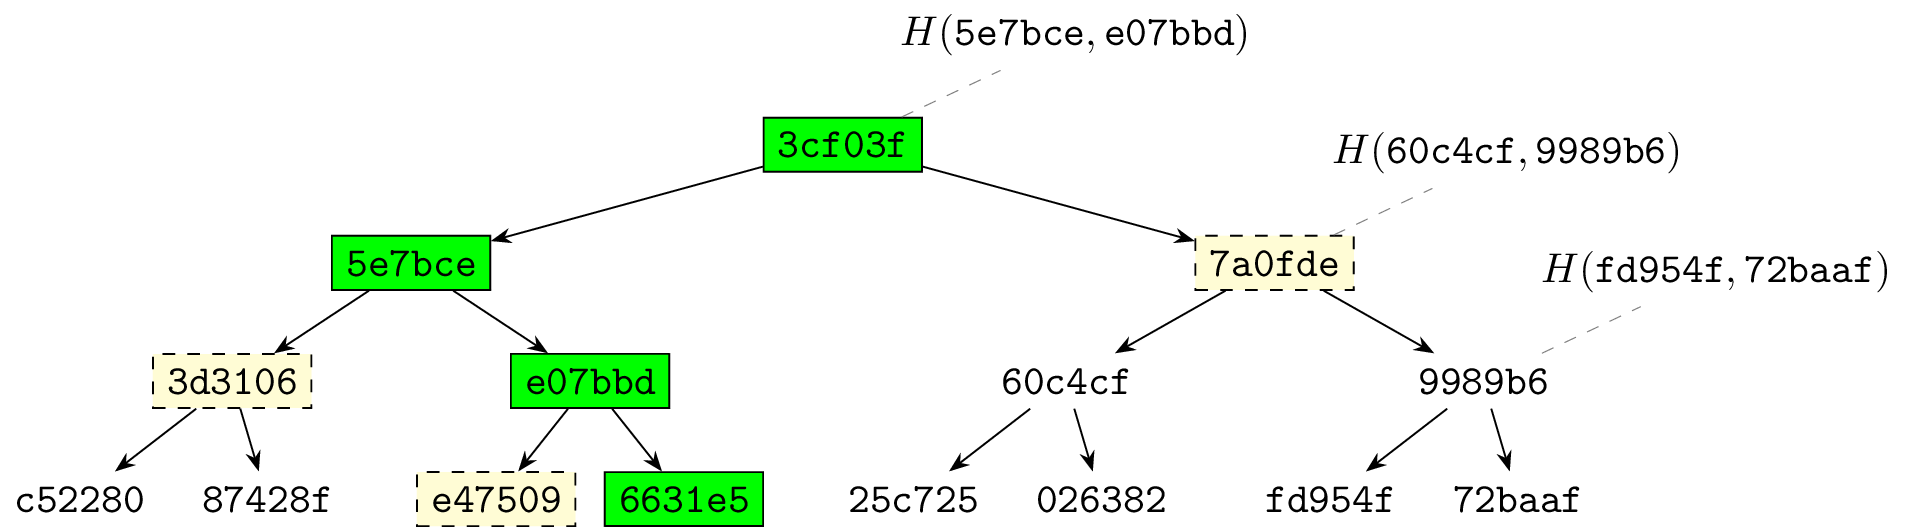
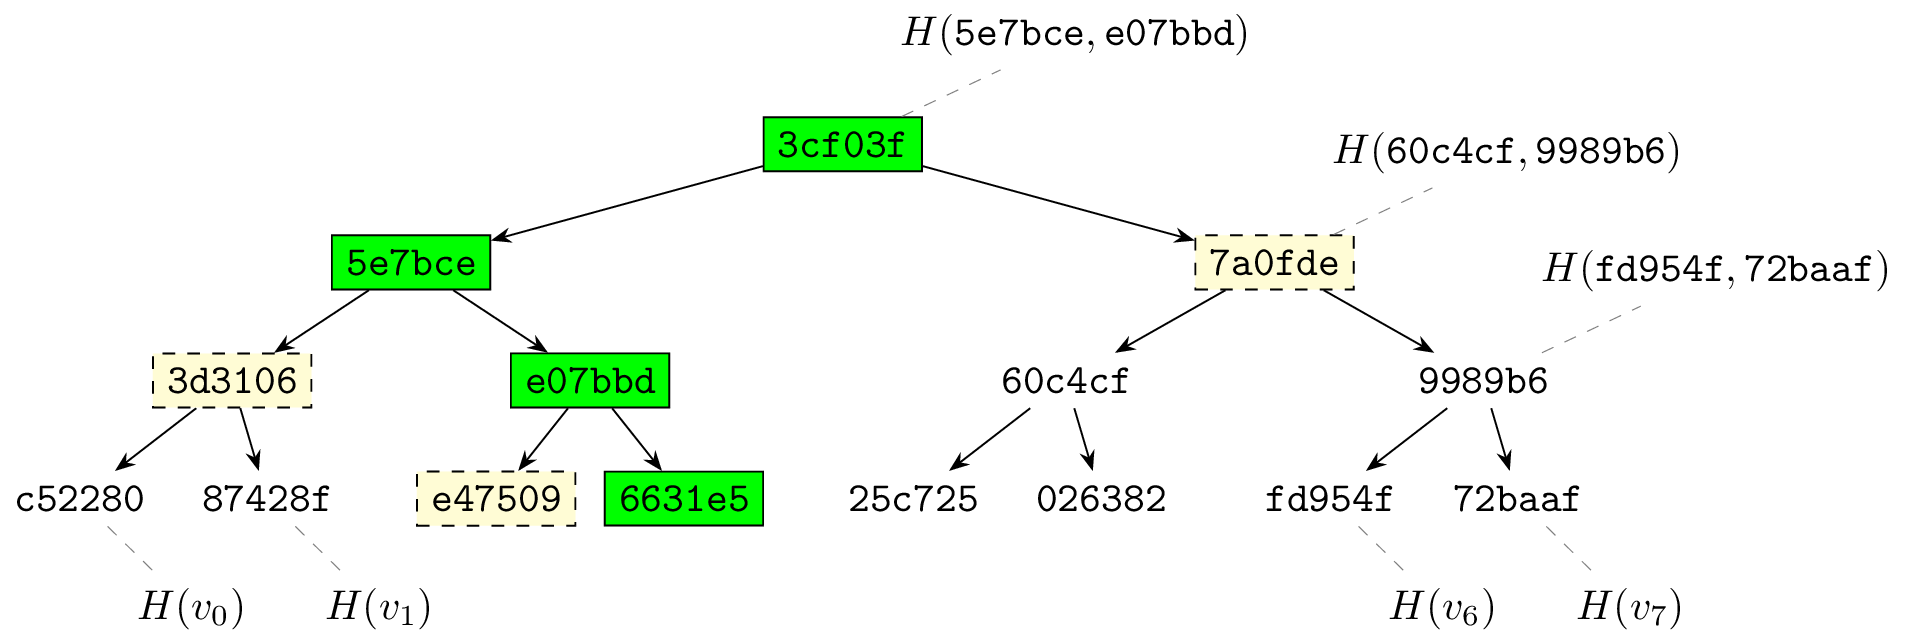
edit the background diagram

diff --git a/docs/new-docs/diagrams/merkle-tree-illustration/main.tex b/docs/new-docs/diagrams/merkle-tree-illustration/main.tex
@@ -13,8 +13,8 @@
   "3cf03f"[pth,pin={[pin edge={dashed}]60:{$H(\texttt{5e7bce}, \texttt{e07bbd})$}}] -> {   
     "5e7bce"[pth] -> { 
       3d3106[prf] -> { 
-        c52280,
-        87428f,
+        c52280[pin={[pin edge={dashed}]-60:{$H(v_0)$}}],
+        87428f[pin={[pin edge={dashed}]-60:{$H(v_1)$}}],
       }, 
     "e07bbd"[pth] -> { e47509[prf], "6631e5"[pth] }
     },
@@ -24,8 +24,8 @@
         026382,
       }, 
       9989b6[pin={[pin edge={dashed}]60:{$H(\texttt{fd954f}, \texttt{72baaf})$}}] -> {
-        fd954f,
-        72baaf,
+        fd954f[pin={[pin edge={dashed}]-60:{$H(v_6)$}}],
+        72baaf[pin={[pin edge={dashed}]-60:{$H(v_7)$}}],
       }
     }
   }

diff --git a/docs/new-docs/01-background.md b/docs/new-docs/01-background.md
@@ -17,8 +17,9 @@ Merkle tree is a mechanism for cryptographically commiting to some values. It
 allows efficiently revealing part of the commited values, recalculating the
 commitment when the values change.
 
-Leaves in a Merkle tree contain hashes of the commited values. And each inner
-(that is, non-leaf) node contains the hash of its two children.
+Leaves in a Merkle tree contain hashes of the commited values $v_0$ …
+$v_{n-1}$. And each inner (that is, non-leaf) node contains the hash of its two
+children.
 
 ![Merkle tree illustration](diagrams/merkle-tree-illustration.png)
 
@@ -32,9 +33,8 @@ the root `3cf03f`, but you don't know the whole tree.
    and light yellow), you can verify that the leaf is indeed holding the
    value `6631e5`. You do that by recalculating the hashes of all the nodes
    along the path and, finally, verifying that the path starts with the
-   expected root hash. Note that you needed to see only $O(\log n)$ hash
-   values to verify this, and you didn't have to know all $n$ tree nodes for
-   this.
+   expected root hash. Note that you needed to see only $O(\log n)$ hash values
+   to verify this, and you didn't have to know all $O(n)$ tree nodes for this.
 
    The path (sequence of left-right turns) to a node in a Merkle tree together
    with the hash values of the nodes encountered on the way is called **Merkle
